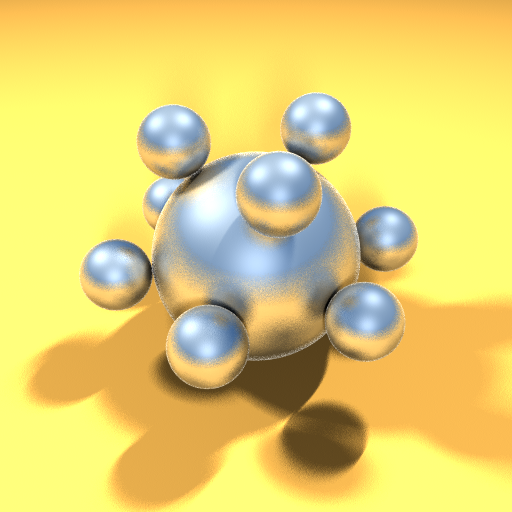
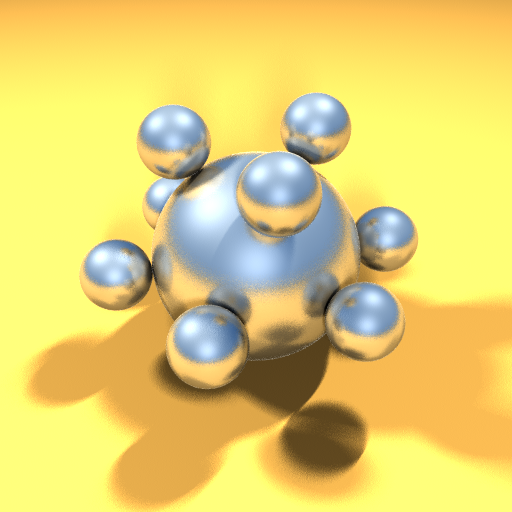
Fixed DOF and fuzzy reflections

diff --git a/lab01/main.cpp b/lab01/main.cpp
@@ -461,23 +461,38 @@ void setupGLUT(int argc, char* argv[])
 
 /////////////////////////////////////////////////////YOUR CODE HERE///////////////////////////////////////////////////////////////////////////////////////
 
-double get_rand(double min, double max) {
+float get_rand(float min, float max) {
 	return min + rand_float() * (max - min);
 }
 
 Vector rand_in_unit_sphere(int p, int q, int sqrt_num_samples) {
-	double theta = get_rand(2.0 * PI * p / sqrt_num_samples, 2.0 * PI * (p + 1) / sqrt_num_samples);
+	/*double theta = get_rand(2.0 * PI * p / sqrt_num_samples, 2.0 * PI * (p + 1) / sqrt_num_samples);
 	double z = get_rand(-1.0 + 2.0 * q / sqrt_num_samples, -1.0 + 2.0 * (q + 1) / sqrt_num_samples);
 	double c = sqrt(1 - pow(z, 2));
 	double x = c * cos(theta);
-	double y = c * sin(theta);
+	double y = c * sin(theta);*/
+
+	float theta = rand_float() * 2.0 * PI;
+	float phi = rand_float() * 2.0 * PI;
+	float r = rand_float();
+
+	float x = r * sin(theta) * cos(phi);
+	float y = r * sin(theta) * sin(phi);
+	float z = r * cos(theta);
+
 	return Vector(x, y, z);
 }
 
 Vector rand_in_unit_circle(int p, int sqrt_num_samples) {
-	double theta = get_rand(2.0 * PI * p / sqrt_num_samples, 2.0 * PI * (p + 1) / sqrt_num_samples);
+	/*double theta = get_rand(2.0 * PI * p / sqrt_num_samples, 2.0 * PI * (p + 1) / sqrt_num_samples);
 	double x = cos(theta);
-	double y = sin(theta);
+	double y = sin(theta);*/
+
+	float theta = rand_float() * 2.0 * PI;
+	float r = rand_float();
+	float x = r * cos(theta);
+	float y = r * sin(theta);
+
 	return Vector(x, y, 0);
 }
 
@@ -782,21 +797,24 @@ void renderScene()
 				else {
 					sqrt_spp_dof = sqrt_spp;
 				}
+
 				// Average each ray's colour
 				for (int p = 0; p < sqrt_spp_dof; p++) {
 					for (int q = 0; q < sqrt_spp_dof; q++) {
 						lens_sample = rand_in_unit_circle(p * sqrt_spp_dof + q, sqrt_spp_dof) * aperture;
-						lens_sample.x /= RES_X;
-						lens_sample.y /= RES_Y;
+						
 						if (sqrt_spp != 0) { // Anti-aliasing => Each pixel sample is different
 							pixel_sample.x = x + get_rand(p, p + 1) / sqrt_spp_dof;
-							pixel_sample.y = y + get_rand(q, q + 1) / sqrt_spp_dof;
+							pixel_sample.y = y + get_rand(p, p + 1) / sqrt_spp_dof;
+							
 						}
+
+						//printf("%f, %f, %f \n", pixel_sample.x, pixel_sample.y, pixel_sample.z);
 						Ray ray = camera->PrimaryRay(lens_sample, pixel_sample);
 						Color a = rayTracing(ray, 1, 1.0);
-						printf("%f, %f, %f ///// ", a.r(), a.g(), a.b());
+						//printf("%f, %f, %f ///// ", a.r(), a.g(), a.b());
 						color += a;
-						printf("%f, %f, %f\n", color.r(), color.g(), color.b());
+						//printf("%f, %f, %f\n", color.r(), color.g(), color.b());
 					}
 				}
 

diff --git a/lab01/camera.h b/lab01/camera.h
@@ -76,7 +76,7 @@ public:
 
 		x = w * (pixel_sample.x / res_x - 0.5);
 		y = h * (pixel_sample.y / res_y - 0.5);
-		z = -((eye - at).length());
+		z = -(plane_dist);
 
 		Vector ray_dir = (u * x + v * y + n * z).normalize();
 		return Ray(eye, ray_dir);  
@@ -84,11 +84,21 @@ public:
 
 	Ray PrimaryRay(const Vector& lens_sample, const Vector& pixel_sample) // DOF: Rays cast from a thin lens sample to a pixel sample
 	{
-		Vector focal_plane_sample = (Vector) pixel_sample * focal_ratio;
-		//Vector eye_offset = eye + lens_sample;
+		Vector aux;
+
+		aux.x = w * (pixel_sample.x / res_x - 0.5);
+		aux.y = h * (pixel_sample.y / res_y - 0.5);
+		aux.z = -(plane_dist);
+		
+		Vector focal_plane_sample =  aux * focal_ratio;
+		
 		Vector eye_offset = eye + u * lens_sample.x + v * lens_sample.y;
-		Vector ray_dir = (focal_plane_sample - (Vector)lens_sample).normalize();
-		//Vector ray_dir = (u * ray_dir_env.x + v * ray_dir_env.y + n * ray_dir_env.z).normalize();
+		
+		Vector ray_dir = 
+			( u * (focal_plane_sample.x - lens_sample.x) + 
+			v * (focal_plane_sample.y - lens_sample.y) + 
+			n * focal_plane_sample.z).normalize();
+
 		return Ray(eye_offset, ray_dir);
 	}
 };
